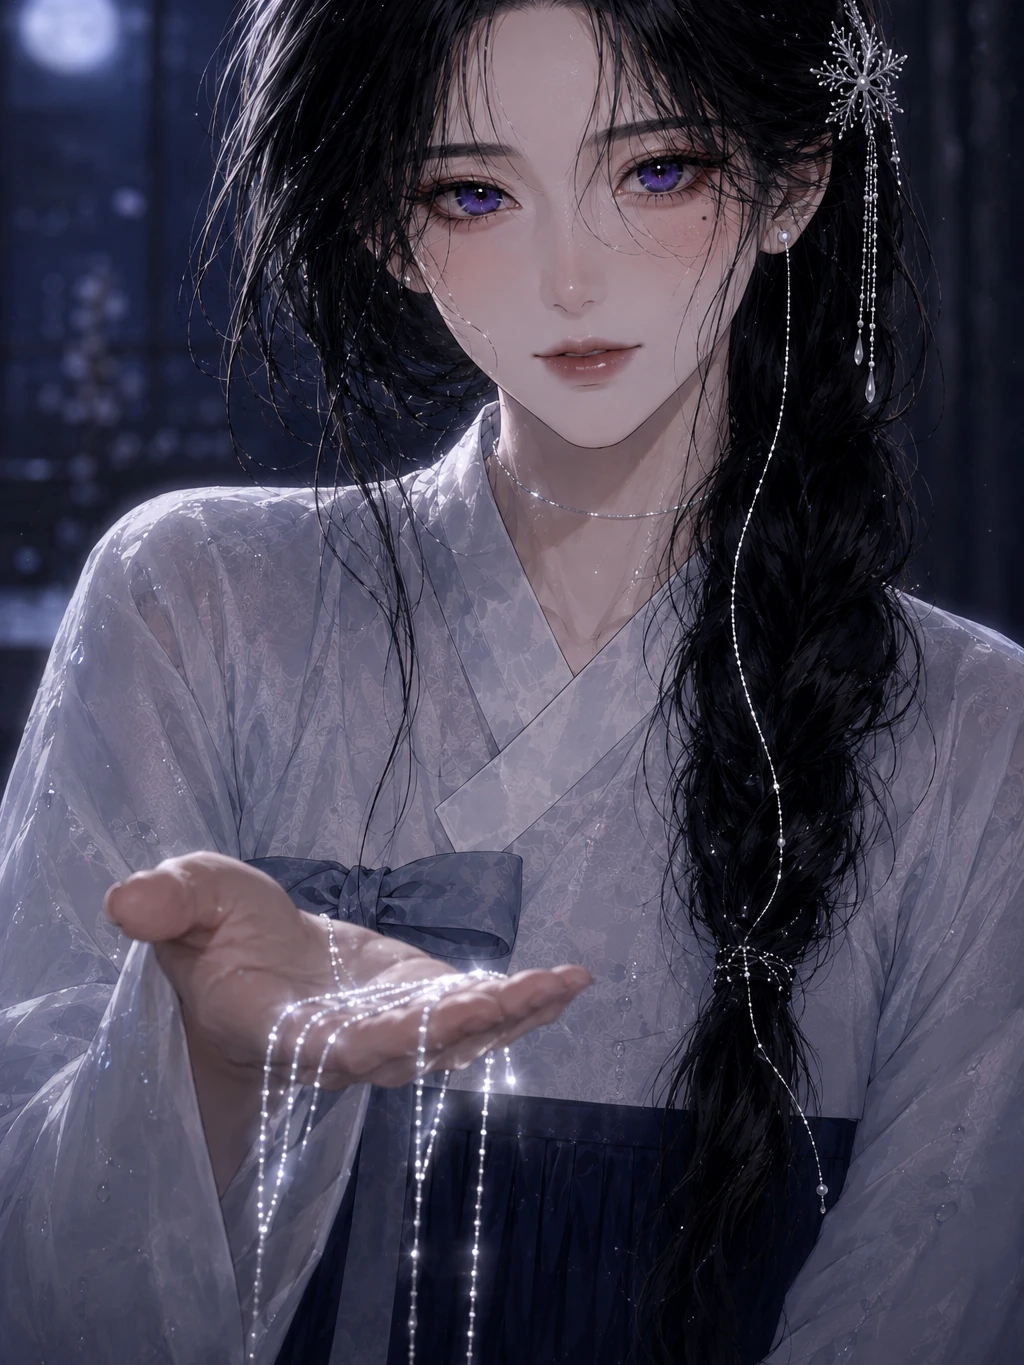
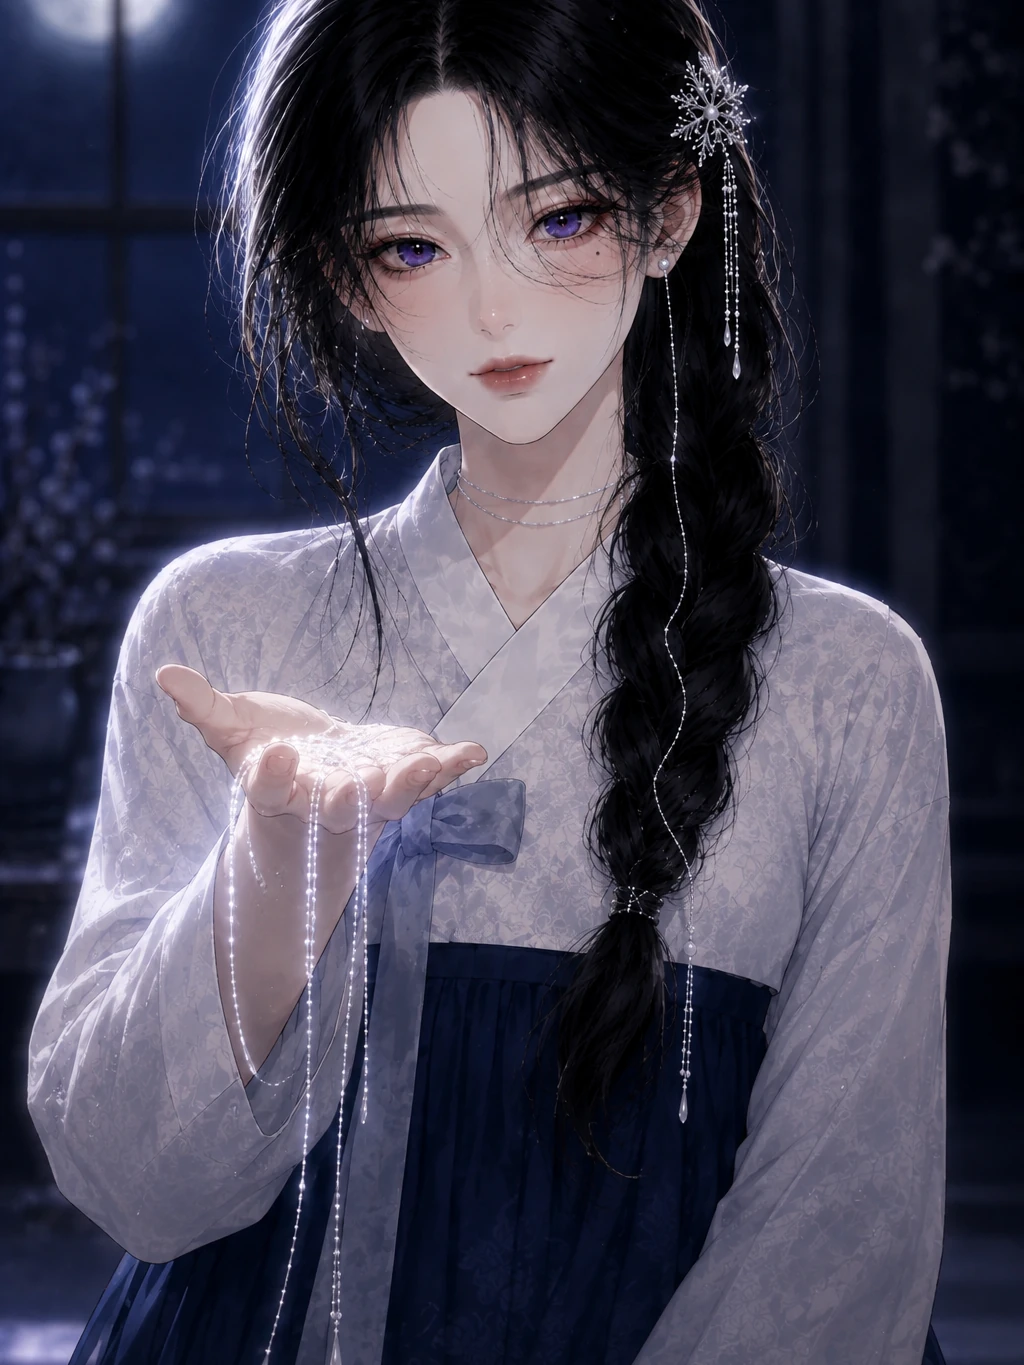
N2 혼자 어려 보이던 것 — 홍조·눈을 기준 컷에 맞추고 한 발 물러나 다시 뽑는다
계보는 맞았는데 N2 만 볼 홍조가 진하고 눈이 커서 셋 중 혼자 튀었다.
원인은 STYLE 의 「WET, DEWY」와 PALETTE 의 「soft flush」가 얼굴 큰 클로즈업에서 과발현된 것.

고정 블록은 손대지 않고 COMPOSITION 뒤에 CALIBRATION 한 줄을 덧대 기준 컷(image 2)에
맞추게 했다. 여기에 「한 발 물러난 프레이밍」을 같이 주면 확실히 가라앉는다 —
얼굴이 작아지면 피부 디테일 지시가 과발현될 자리 자체가 줄기 때문이다.

2안을 뽑아 대조 시트로 비교했고, 물러난 쪽이 얼굴 크기·홍조·눈 셋 다 기준에 가장 가까웠다.
기법은 에셋_생산_프롬프트시트에 기록.

diff --git a/직녀/에셋_생산_프롬프트시트.md b/직녀/에셋_생산_프롬프트시트.md
@@ -116,12 +116,27 @@ No text, no lettering, no watermarks, no signature.
 | id | 자리 | 후보 | 비고 |
 |---|---|---|---|
 | N1 | 프롤로그 2컷 | `직녀/컷후보/N1-b.png` | 시트+j-greet 2장 첨부. **3:4 로 구워** 배선(두루마리가 아래쪽이라 CSS 크롭에 씻김) |
-| N2 | 신호 카드 밴드 | `직녀/컷후보/N2-b.png` | 같음. 3:4 로 구움 + 말풍선을 오른쪽으로(손이 왼쪽) |
+| N2 | 신호 카드 밴드 | `직녀/컷후보/N2-b.png` | 같음 + **CALIBRATION 줄**·한 발 물러난 프레이밍(아래). 3:4 로 구움 + 말풍선 오른쪽 |
 | N3 | 짝 얼굴 카드 직전 | `직녀/컷후보/N3-b.png` | 같음. 빈 액자 → 다음 블록에서 얼굴 공개 |
 
 낙선(삭제함): 시트만 붙여 뽑은 1차 판. 4앵커는 통과했는데 **계보가 갈라져** 기존 컷 옆에 놓으니
 다른 사람이었다 — 형님이 페이지에서 한눈에 잡아냈다. 대조는 반드시
 `python 직녀/tools/face-compare.py <기존컷> <후보...>` 로 **나란히 놓고** 본다.
+
+### CALIBRATION 줄 — 부품 문구가 과발현될 때
+
+N2 1차본은 계보는 맞는데 **홍조가 진하고 눈이 커서** 셋 중 혼자 어려 보였다. 원인은 ① STYLE 의
+「WET, DEWY」·PALETTE 의 「soft flush」가 **얼굴 큰 클로즈업에서 과발현**된 것. 고정 블록은 손대지 않고
+COMPOSITION 뒤에 한 줄을 덧대 기준 컷에 맞추게 했다(2026-08-27 실측으로 잡힘):
+
+```
+CALIBRATION (important): Her blush must be FAINT and barely visible — exactly as restrained
+as image 2, not stronger. Her eyes must be the SAME SIZE and the same level of moisture as
+image 2 — do NOT enlarge them and do NOT add extra wetness or tears.
+```
+
+여기에 **「한 발 물러난 프레이밍」**(head smaller in frame, waist-up)을 같이 주면 더 확실히 가라앉는다 —
+얼굴이 작아지면 피부 디테일 지시가 과발현될 자리 자체가 줄기 때문이다.
 
 > 컷마다 **연기가 일어나는 높이**가 다르다. 밴드/프롤로그는 기본 3:2·페이드 52% 인데, 손·소품이
 > 가슴 아래에 있으면 그 구간이 통째로 지워진다. `cutRatio`·`cutPos`·`cutFade`·`bubbleSide` 로 맞춘다.
